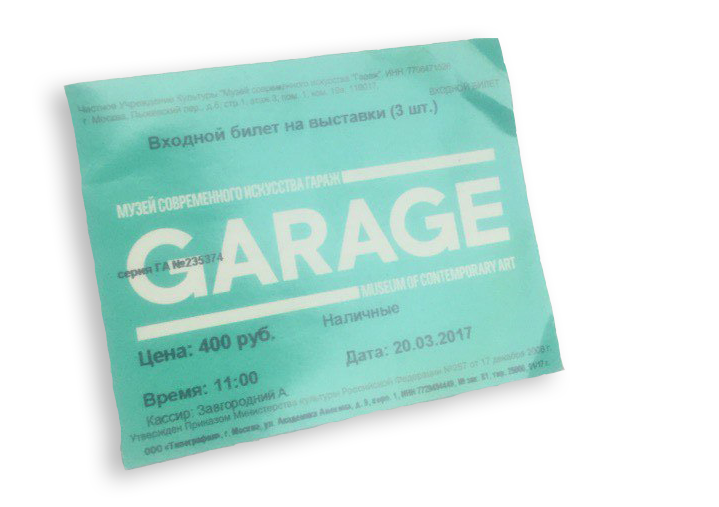
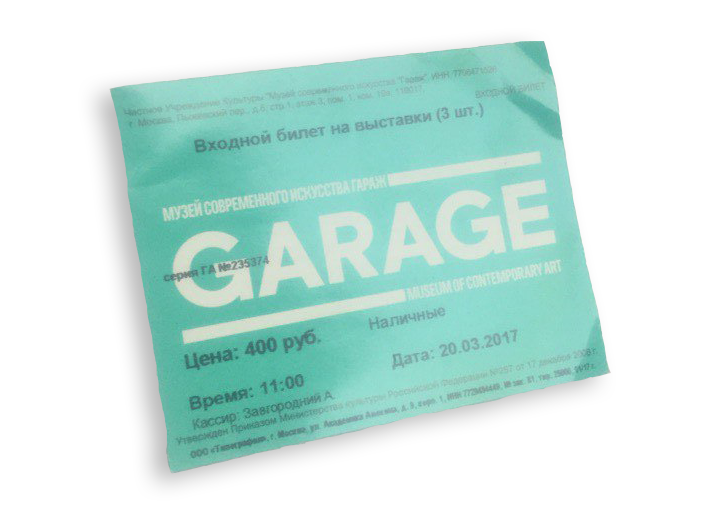
new garage centre img

diff --git a/_posts/2013-12-09-example-post.md b/_posts/2013-12-09-example-post.md
@@ -39,4 +39,4 @@ categories: posts
 Описывать инсталляции я не буду, чтобы не портить Вам впечатления, если вы решитесь туда пойти. Вкратце я скажу, что сейчас то самое время, когда можно делать все и это выставка это доказывает, назвать то что я видел искусством к сожалению, или к счастью я не могу.  Искусство делает мне больно.
 
 
-<img src="/images/garage.png" alt="newgarage" align="center">
+<img src="/images/garage.png" alt="ngarage" align="center">
